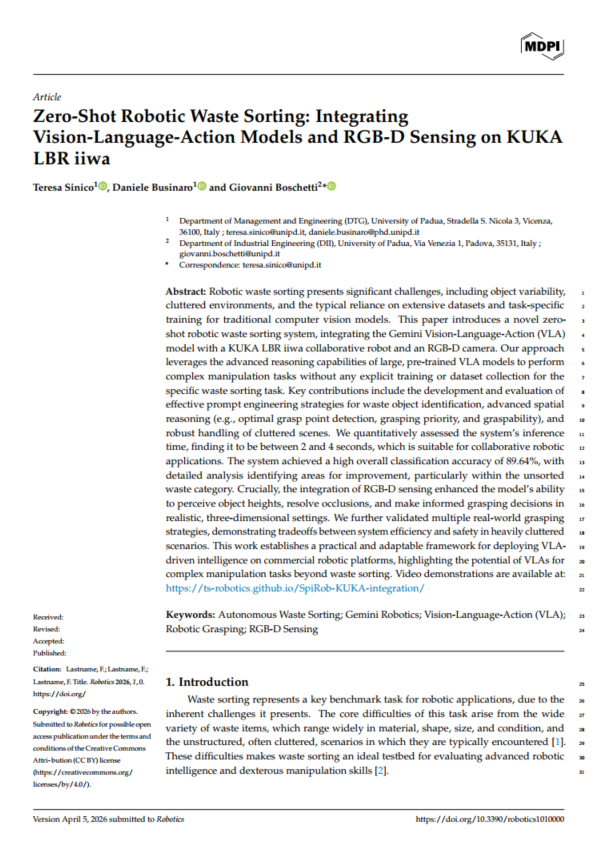
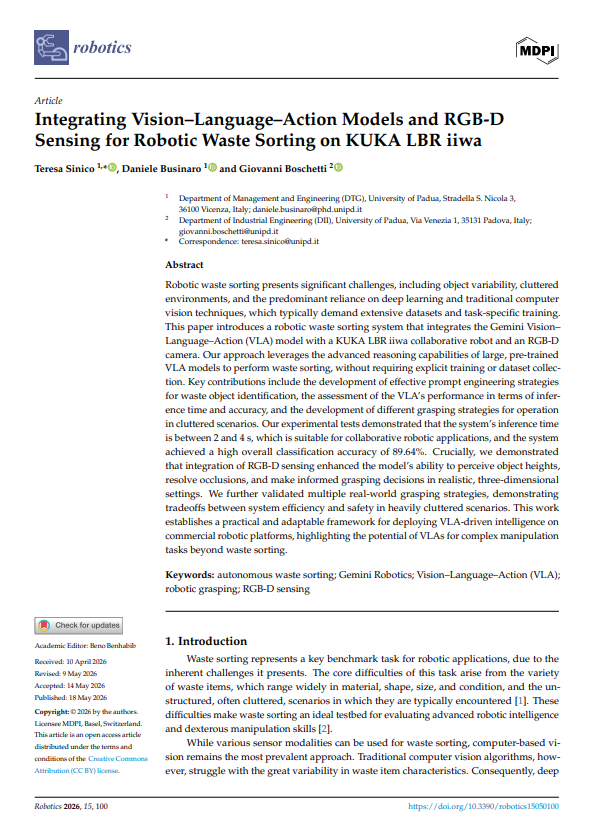
Add files via upload

Changed region(s): [[0.0304, 0.0311, 0.973, 0.994]]

diff --git a/index.html b/index.html
@@ -331,14 +331,17 @@ same input image, with the corresponding inference time (bottom left corner)</fi
                 <!-- <a href="https://openreview.net/forum?id=rxlokRzNWRq"><h3>ManiCast: Collaborative Manipulation with Cost-Aware Human Forecasting</h3></a>
         <p>Kushal Kedia, Prithwish Dan, Atiksh Bhardwaj, Sanjiban Choudhury</p> -->
                 <h3 class="title is-4" style="text-align: center;">BibTex</h3>
-                <pre style="overflow-x:hidden; text-wrap:wrap; white-space: pre-wrap;"><code>@misc{Sinico2026,
-  title={Integrating Vision-Language-Action Models and RGB-D Sensing for Robotic Waste Sorting on KUKA LBR iiwa}, 
-  author={Teresa Sinico, Daniele Businaro and Giovanni Boschetti},
-  year={2026},
-  eprint={},
-  archivePrefix={},
-  primaryClass={},
-  url={}, 
+                <pre style="overflow-x:hidden; text-wrap:wrap; white-space: pre-wrap;"><code>@Article{Sinico2026,
+AUTHOR = {Sinico, Teresa and Businaro, Daniele and Boschetti, Giovanni},
+TITLE = {Integrating Vision–Language–Action Models and RGB-D Sensing for Robotic Waste Sorting on KUKA LBR iiwa},
+JOURNAL = {Robotics},
+VOLUME = {15},
+YEAR = {2026},
+NUMBER = {5},
+ARTICLE-NUMBER = {100},
+URL = {https://www.mdpi.com/2218-6581/15/5/100},
+ISSN = {2218-6581},
+DOI = {10.3390/robotics15050100}
 }
   
 </code></pre>
